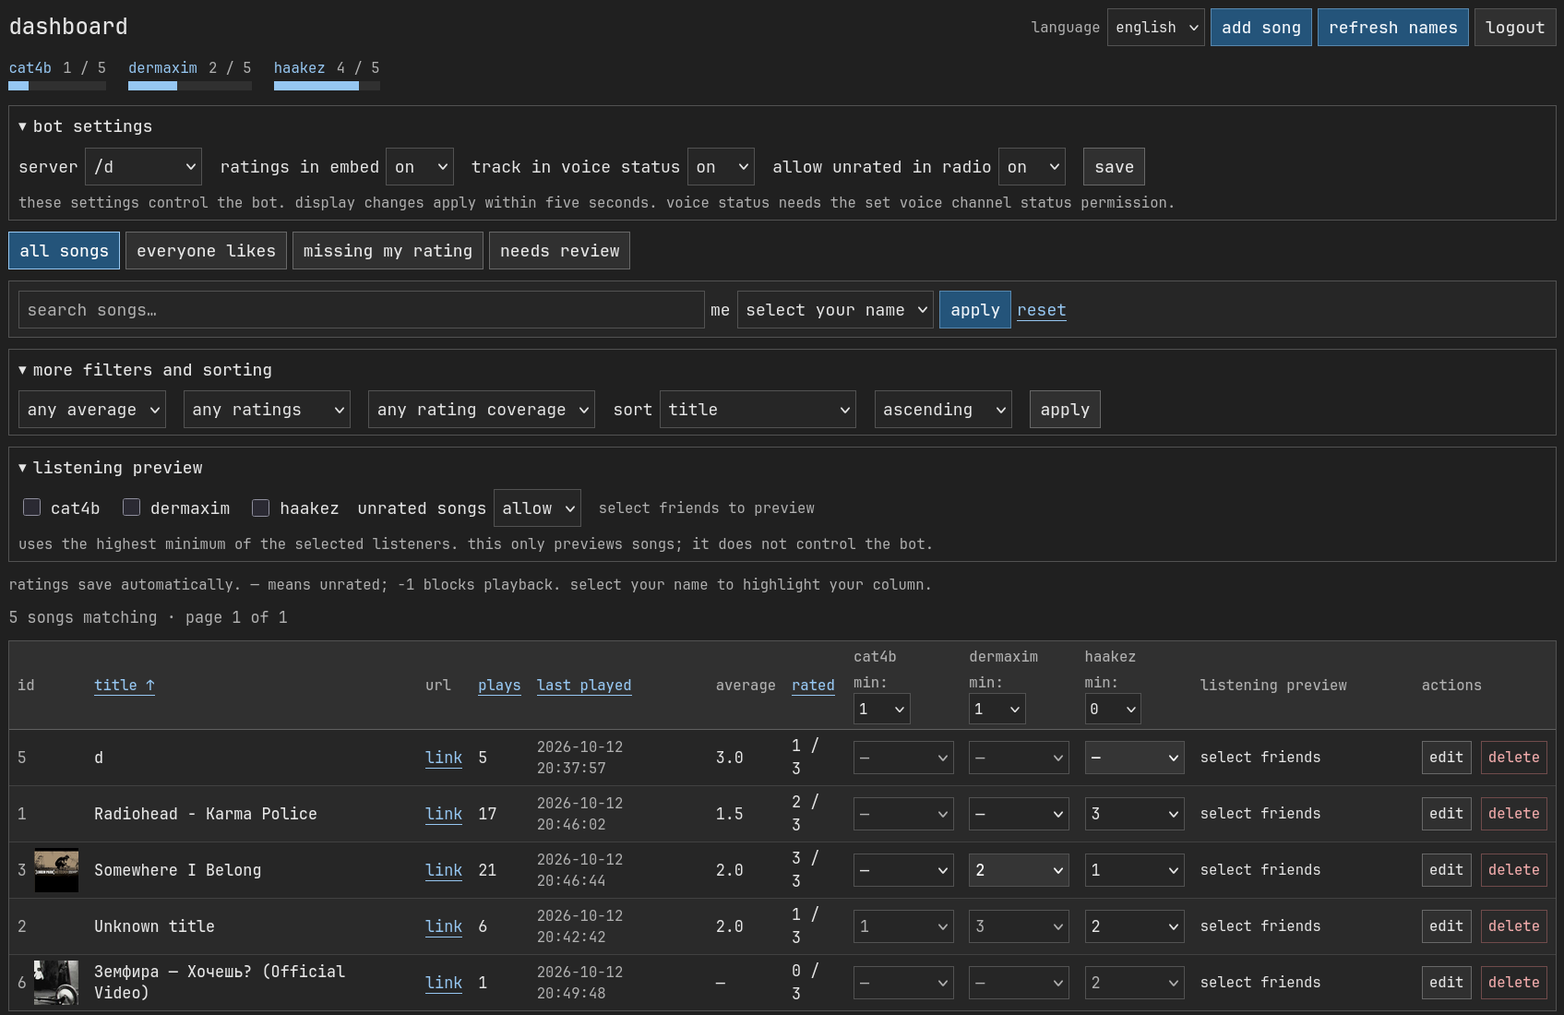
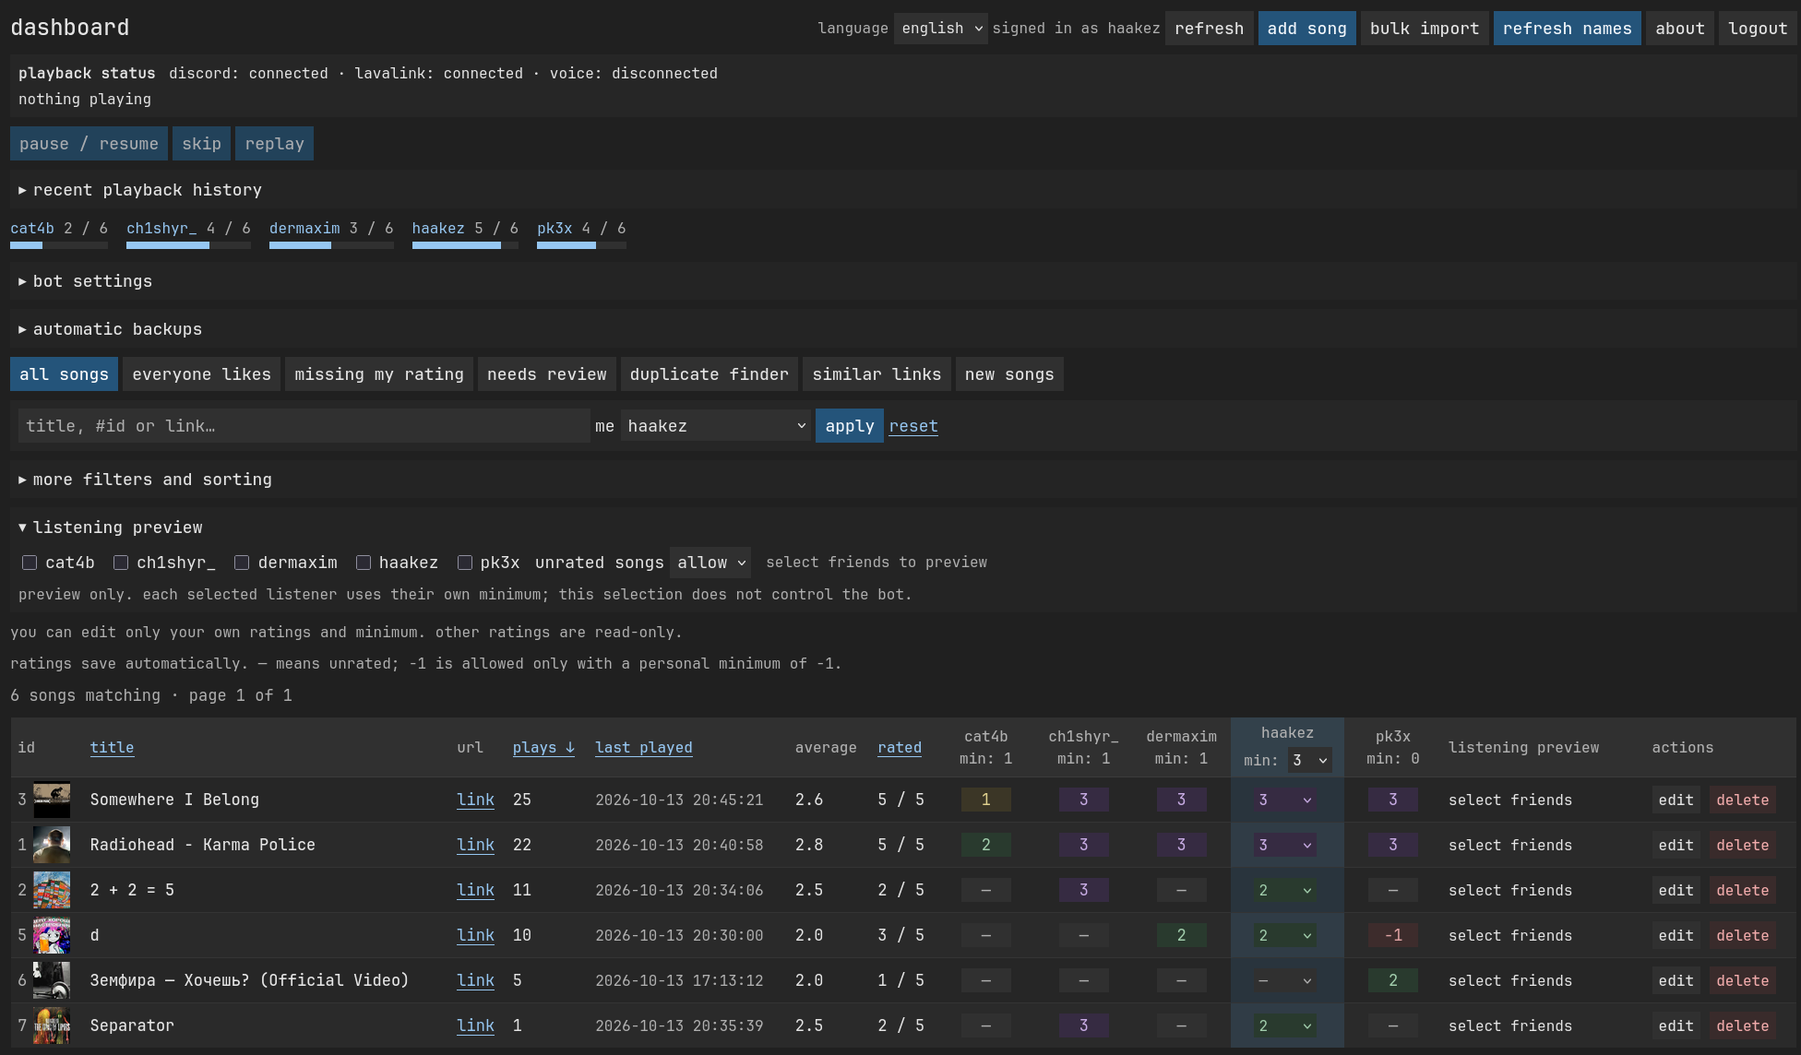
trim readme and update screenshot

diff --git a/README.md b/README.md
@@ -1,287 +1,176 @@
 # musicbot
 
-a discord music bot with a shared library, personal ratings, radio, playlist queues, playback across up to three voice channels, and a dashboard for managing songs and ratings.
-
-## dashboard
-
-manage songs and ratings, check listening eligibility, view playback status, and configure radio and backups. open “about” for the command reference, also available through `b!help`.
+music playback, personal ratings, radio, playlist queues, sync across three voice channels, and a dashboard.
 
 ![dashboard](docs/dashboard.png)
 
-## run
+## setup
 
-needs python 3.11+, lavalink v4 saved as `Lavalink.jar`, its required java version, and a discord bot with message content and server members intents enabled.
+python 3.11+, java 17+, `Lavalink.jar`, and a discord bot with message content and server members intents enabled.
 
 ```bash
+# nix: enter this first
+nix-shell
+# without nix:
 python -m venv venv
 source venv/bin/activate
+
 pip install -r requirements.txt
 cp .env.example .env
-# add your tokens and passwords to .env
+# fill in .env
 ```
 
-run these in separate terminals:
+load `.env` in each terminal. run from the project directory:
 
 ```bash
-# lavalink
 source .env
 java -jar Lavalink.jar
 ```
 
 ```bash
-# bot
 source venv/bin/activate
 source .env
 python main.py
 ```
 
 ```bash
-# dashboard
 source venv/bin/activate
 source .env
 python webapp.py
 ```
 
-open http://127.0.0.1:5000. set `ADMIN_USERNAME`, `ADMIN_PASSWORD`, and `FLASK_SECRET_KEY` in `.env`. the local fallback is `admin` / `password`. `token.txt` works when token environment variables are unset. on nix, use `nix-shell` first.
+local dashboard: http://127.0.0.1:5000. `token.txt` works instead of `DISCORD_TOKEN`. keep lavalink private.
 
 ## commands
 
 ```text
 b!help
 b!add <title or link>
-b!play <title, link or search>       # b!p
-b!radio                             # b!r
-b!queue [page]                      # b!q
-b!remove <queue number>
+b!play <title, link or search>             # b!p
+b!radio                                   # b!r
+b!queue [page]                            # b!q
+b!remove <number>
 b!move <from> <to>
 b!shuffle
 b!clear
-b!skip                              # b!s
-b!stop                              # b!st
-b!leave                             # b!l
-b!pause                             # b!pa
-b!resume                            # b!re
+b!skip                                    # b!s
+b!stop                                    # b!st
+b!leave                                   # b!l
+b!pause                                   # b!pa
+b!resume                                  # b!re
+b!replay
 b!seek <seconds>
-b!loop [track|queue|off]             # b!lp
+b!loop [track|queue|off]                   # b!lp
 b!np
-b!minrating <-1–3>                    # b!mr
+b!history
+b!minrating <-1|0|1|2|3>                   # b!mr
 b!unrated on|off
 b!embedratings on|off
 b!voicestatus on|off
 b!radioinfo
-b!rate <-1–3> <title or #song_id>
+b!rate <-1|0|1|2|3> <title or #song_id>
 b!library [page]
 b!sync <channel_id> [second_channel_id]
 b!unsync
 ```
 
-playlist links queue all returned tracks. text searches use the first result. `b!add` saves tracks to the library; `b!play` alone does not. `songs.txt` imports one title per line at startup, then empties the file.
+`b!play` offers search results; links and playlists queue directly. `b!add` saves to the library. playback buttons require a linked voice channel. the last three track messages remain available for ratings until restart.
+
+optional slash commands: set `ENABLE_SLASH_COMMANDS=true` before starting the bot. supported: `/play`, `/radio`, `/queue`, `/np`, `/history`, `/replay`, `/pause`, `/resume`, `/skip`.
 
 ## radio
 
-ratings: **-1, 0, 1, 2, 3**. missing ratings are separate from 0.
+ratings and personal minimums: `-1, 0, 1, 2, 3`. each listener's rating must meet their own minimum. minimum `-1` allows their -1 ratings; `—` is unrated. `b!unrated` controls missing ratings. manual requests bypass rating filters.
 
-radio checks each listener’s rating against that person’s own minimum. for example, a rating of 1 with a minimum of 1 and a rating of 3 with a minimum of 3 both pass. averages are not used for eligibility. **-1 blocks a song when that listener’s minimum is 0 or higher. a minimum of -1 allows their -1 ratings.**
+radio repeats eligible songs. “keep radio connected and retry” keeps it connected and waiting when no tracks qualify. source failures have a five-minute cooldown; `b!radio` retries immediately.
 
-`b!unrated on` allows missing ratings; `off` requires everyone to rate the song. manual requests bypass these rules. radio favours less-played songs and cycles through the eligible library. when every matching song has played, it starts another cycle. a single eligible song repeats. unavailable tracks are skipped for five minutes; `b!radio` retries them immediately.
-
-## sync
-
-invite two extra bot accounts with server members intent enabled. add their tokens to `.env` and restart:
-
-```bash
-export DISCORD_SYNC_TOKEN_2='second-bot-token'
-export DISCORD_SYNC_TOKEN_3='third-bot-token'
-```
-
-start playback, then use `b!sync` with one or two channel ids. companions follow the main bot's queue and playback. radio checks everyone across the linked channels. timing is approximate; live streams cannot be aligned by seeking.
-
-## platforms
-
-youtube, soundcloud, bandcamp, twitch, vimeo, and http audio links are configured. lavasrc adds optional spotify and apple music links, using youtube for the actual audio.
-
-set `SPOTIFY_ENABLED=true` with `SPOTIFY_CLIENT_ID` and `SPOTIFY_CLIENT_SECRET`, or `APPLE_MUSIC_ENABLED=true` with `APPLE_MUSIC_TOKEN`. export them before starting java and restart lavalink. other sources need their own configuration: [lavasrc docs](https://github.com/topi314/LavaSrc).
-
-```text
-b!play ytsearch:<query>
-b!play ytmsearch:<query>
-b!play scsearch:<query>
-b!play spsearch:<query>
-b!play amsearch:<query>
-```
+for sync, invite additional bots, set `DISCORD_SYNC_TOKEN_2` and optionally `DISCORD_SYNC_TOKEN_3`, restart, then use `b!sync`. timing is approximate.
 
 ## dashboard
 
-“bot settings” controls ratings in the now-playing embed, the track in voice-channel status, and whether radio allows unrated songs. settings are saved per server and match the commands above. display updates apply within five seconds. voice status needs the bot’s “set voice channel status” permission.
+- discord login; edit your own ratings and minimum.
+- playback controls, connection status, history, and bot settings.
+- search by title, `#id`, full link, or partial link.
+- duplicate finder, listening preview, new-song filters, and sortable columns.
+- bulk import with preview: text, csv, or tsv; headers `title,url`; maximum 5000 entries / 2 mb.
+- link-only entries fetch titles and covers when playback starts.
+- russian by default; language choice is remembered.
 
-- english and russian, inline saves, and per-person progress.
-- sorting by title, plays, last played, and rating coverage.
-- listening preview showing who blocks a track and why.
-- “everyone likes”: everyone rated 2 or 3.
-- “missing my rating”: tracks the selected person has not rated.
-- “needs review”: missing ratings, disagreements, or unresolved links.
-- cached usernames with manual refresh.
+changing a recording link clears stale metadata. video links lose attached playlists and tracking parameters but retain timecodes such as `t=1m30s`; these also work in radio. standalone playlist links remain supported.
 
-**—** clears a rating. apply the view again to refresh filtering after edits. the preview does not change the bot's settings. discord users can edit only their own ratings and minimum. other ratings remain visible; password-only sessions cannot edit ratings.
+## discord login
 
-for remote access, use https and a production server:
-
-```bash
-gunicorn --workers 1 --bind 127.0.0.1:5000 webapp:app
-```
-
-run everything from the same directory. keep lavalink private. back up `music_bot.db` with sqlite's backup api, or stop both apps before copying it.
-
-## audio sources
-
-song searches try a matching soundcloud recording first, then youtube. matching checks the title but can still select a different upload. explicit links, including saved youtube links, always use the supplied platform and recording. search prefixes also select a platform directly.
-
-```text
-b!play scsearch:artist title
-b!play ytsearch:artist title
-b!play ytmsearch:artist title
-b!play spsearch:artist title
-b!play amsearch:artist title
-b!play <soundcloud, bandcamp, spotify or apple music link>
-```
-
-soundcloud and bandcamp provide audio directly. spotify and apple music require their credentials in `.env`; lavasrc resolves their metadata through soundcloud, then youtube. youtube tries the patched ios client before mweb and tvhtml5_simply. ratings stay attached to the library song when another source is selected.
-
-youtube signature decoding uses the public yt-cipher service at `https://cipher.kikkia.dev/`. this is an external dependency; audio still streams through lavalink without downloading songs. set `YOUTUBE_CIPHER_URL` and, if needed, `YOUTUBE_CIPHER_PASSWORD` to use your own [yt-cipher instance](https://github.com/kikkia/yt-cipher). restart lavalink after changing these settings. the helper addresses player-script decoding failures; youtube login requirements can still prevent playback.
-
-the youtube plugin is pinned to development build `6579cdfd8fbfffad7c95b72fc07ff81c11d9e4de` for the upstream ios playback fix, with ios tried before mweb. this is newer development code than stable 1.18.2; playback may still fail as youtube changes. to revert, restore dependency version `1.18.2` and the releases repository in `application.yml`, remove the development youtube jar from `plugins`, and restart lavalink.
-
-all playback uses lavadspx adaptive peak attenuation, including radio and synced channels. it reduces peaks above amplitude `0.4` without boosting quiet recordings. this is not measured lufs normalization; songs can still differ in perceived loudness.
-
-## database backups
-
-the bot creates a consistent sqlite snapshot at startup and every six hours, keeping the latest 28 snapshots in `backups/`. snapshots include songs, ratings, usernames, thresholds, and server settings. they are checked before publication; backup failures are logged without stopping playback.
+in the [discord developer portal](https://discord.com/developers/applications), open oauth2 and configure these in `.env`:
 
 ```bash
-# create a backup now, including while the bot is running
-python backup_db.py
-# choose another destination or retention count
-python backup_db.py --directory /path/to/backups --keep 28
+export DISCORD_OAUTH_CLIENT_ID='application_id'
+export DISCORD_OAUTH_CLIENT_SECRET='oauth_secret_not_bot_token'
+export DISCORD_OAUTH_REDIRECT_URI='http://127.0.0.1:5000/auth/discord/callback'
+export DISCORD_ALLOWED_USER_IDS='your_id,friend_id'
+export DASHBOARD_LOGIN_DAYS='30'
+export FLASK_SECRET_KEY='permanent_random_secret'
 ```
 
-set the backup interval (1–168 hours) under “automatic backups” in the dashboard. changes apply within 30 seconds. `DB_BACKUP_HOURS` supplies the initial default; saved dashboard settings take precedence. `DB_BACKUP_DIR` and `DB_BACKUP_KEEP` in `.env` control destination and retention. automatic backups run while the bot is running. keep a copy on another disk or machine to protect against disk failure.
+register the exact callback under oauth2 → redirects. for public hosting, use https and `FLASK_COOKIE_SECURE=true`.
 
-```bash
-# restore: stop the bot and dashboard first, then preserve the current database
-python backup_db.py
-# replace the example snapshot path with the backup to restore
-python - <<'PY'
-import sqlite3
-from contextlib import closing
-with closing(sqlite3.connect('file:backups/music_bot-YYYYMMDDTHHMMSSffffffZ.sqlite3?mode=ro', uri=True)) as source:
-    with closing(sqlite3.connect('music_bot.db')) as destination:
-        source.backup(destination)
-PY
-# restart the bot and dashboard
-```
+**add people:** append their user ids to `DISCORD_ALLOWED_USER_IDS`, reload `.env`, and restart the dashboard. discord developer mode enables “copy user id”.
 
-now-playing messages show source, artwork when available, duration, play count, and requester details for manual requests. `b!embedratings on|off` or the dashboard setting controls the ratings section. the bot retains its latest three track messages per server during a run so earlier tracks can still be rated; -1 on an older track does not skip a different current song. messages from before a bot restart are not registered again.
-
-in the dashboard, a song can have only a link and no title. its title and artwork are filled from source metadata when playback starts. supplied titles are preserved. cover thumbnails appear beside song ids after artwork has been resolved.
-
-## dashboard status and radio
-
-“keep radio connected and retry” in bot settings keeps active radio connected when the channel is empty or no eligible songs remain. eligible songs already repeat after each cycle. while waiting, radio rechecks every 15 seconds and resumes when listeners return or ratings allow playback. source failures still keep their five-minute cooldown. explicit stop and leave commands remain available; this does not reconnect a bot that was forcibly disconnected.
-
-the dashboard shows discord, lavalink, and voice connection status, the current track, pause state, source, and listener count. status refreshes about every five seconds; a heartbeat older than 20 seconds is marked outdated.
-
-“similar links” finds entries pointing to the same recording, including youtube short/watch/embed links and common tracking variations. it does not compare audio across different uploads. “new songs” shows additions from the last seven days; date-added sorting is also available. timestamps are recorded for new entries; existing entries with unknown dates are excluded from the new-songs view.
-
-search accepts titles, exact ids such as `#123`, full links, and partial links. full youtube links also match alternate url formats for the same video. “duplicate finder” lists possible duplicates by normalized link or similar title and shows the matching ids. review recordings before deleting: similar titles can belong to different versions, and ratings are not merged automatically.
-
-## playback controls and history
-
-now-playing messages include pause/resume, skip, and replay buttons. controls require a listener in a linked voice channel and apply only when that recording is current. dashboard controls are available to signed-in users and show whether the bot completed the action. replay seeks to the start without removing queued songs; live streams cannot be replayed.
-
-```text
-b!replay
-b!history
-```
-
-recent history is saved in sqlite: the dashboard shows the latest 50 entries for the selected server, and `b!history` shows ten. up to 500 entries per server are retained, including failed playback attempts. play counts still increment on track start.
-
-manual `b!play` searches offer up to five recordings to the requester, with a 60-second selection timeout. links and playlists are queued directly. radio keeps its automatic selection.
-
-## bulk import and metadata
-
-open “bulk import” to paste one title or link per line, or upload UTF-8 text, CSV, or TSV. CSV/TSV headers are `title,url`. the preview marks invalid entries and duplicate names/links, and you choose which entries to save. imports are limited to 5000 entries and 2 mb; preview confirmation expires after one hour. existing recording links are rechecked at confirmation and skipped without changing ratings.
-
-changing a song's recording link clears its old cover and, if the title was left unchanged, clears the old title for resolution on the next playback. manually supplied replacement titles are kept. alternate URL formats for the same recording preserve metadata. duplicate recording links and invalid play counts return a form error.
-
-## optional slash commands
-
-```bash
-export ENABLE_SLASH_COMMANDS=true
-python main.py
-```
-
-this registers `/play`, `/radio`, `/queue`, `/np`, `/history`, `/replay`, `/pause`, `/resume`, and `/skip` globally. discord must authorize the bot's application commands, and global registration can take time to appear. prefix commands continue to work. `/play` uses the same result selection as `b!play`. the flag controls registration on startup; turning it off does not unregister commands already published to discord.
-
-## discord dashboard login
-
-`.env` is a plain text file containing shell exports. create it from `.env.example`, edit it, then load it in each terminal before starting a service:
-
-```bash
-cp .env.example .env
-# edit .env with your editor
-nix-shell
-source .env
-python webapp.py
-```
-
-for remembered logins, keep a permanent random `FLASK_SECRET_KEY` in `.env`. generate a value and paste it into that setting:
+generate the session secret:
 
 ```bash
 python -c 'import secrets; print(secrets.token_hex(32))'
 ```
 
-1. open your application in the [discord developer portal](https://discord.com/developers/applications).
-2. under oauth2, copy its client id and client secret into `DISCORD_OAUTH_CLIENT_ID` and `DISCORD_OAUTH_CLIENT_SECRET`. the client secret is not the bot token.
-3. register the exact redirect URL and put the same URL in `DISCORD_OAUTH_REDIRECT_URI`. locally, use `http://127.0.0.1:5000/auth/discord/callback`; publicly, use `https://your-address/auth/discord/callback`.
-4. put your own discord user id and each allowed person's id in `DISCORD_ALLOWED_USER_IDS`.
-5. for public https hosting, set `FLASK_COOKIE_SECURE=true`. use false only for local http development.
-6. load `.env` and restart the dashboard.
+login uses only `identify`. remembered sessions last 30 days by default. keep the secret unchanged across restarts. without oauth configured, local password login uses `ADMIN_USERNAME` / `ADMIN_PASSWORD` (defaults: `admin` / `password`); it cannot edit ratings.
 
-```bash
-export DISCORD_ALLOWED_USER_IDS='111111111111111111,222222222222222222'
-export DASHBOARD_LOGIN_DAYS='30'
-```
+## temporary hosting
 
-**add more people:** edit `DISCORD_ALLOWED_USER_IDS` in `.env`, append another id separated by a comma, then run `source .env` and restart the dashboard. to copy a user id in discord, enable developer mode in settings, then right-click the person and choose “copy user id”. usernames are not used for access decisions.
-
-with discord login configured, password login is disabled and only allowlisted accounts can enter. removed accounts are rejected after the configuration is reloaded, even with a remembered login. the login requests only the `identify` scope and does not save oauth access or refresh tokens in the browser session. ratings and personal minimums can be edited only by their Discord owner. other dashboard controls remain shared among admitted users.
-
-“remember me” keeps login for 30 days by default, including after dashboard restarts when the secret key remains the same. unchecking it uses a browser-session cookie with a 12-hour server expiry. logout clears the browser session. remembered login requires the browser to retain cookies.
-
-“refresh” reloads dashboard data with the applied filters and selected server. it waits for active rating saves and playback actions before allowing a reload.
-
-## temporary sharing for friends
-
-configure discord client id/secret, `DISCORD_ALLOWED_USER_IDS`, and a permanent `FLASK_SECRET_KEY` in `.env` first. the launcher refuses to expose the password-only dashboard. the callback URL is set automatically for this temporary process.
+configure discord login and the allowlist first:
 
 ```bash
 nix-shell
-pip install -r requirements.txt
 ./share-dashboard.sh
 ```
 
-the script loads `.env`, opens a [cloudflare quick tunnel](https://developers.cloudflare.com/tunnel/get-started/quick-tunnels/), and starts a separate gunicorn dashboard on localhost. it prints a temporary https address and its exact oauth callback. add that callback under oauth2 → redirects in the discord developer portal, save, then share the dashboard address with your allowed friends.
+add the printed callback to discord's oauth2 redirects, save, then share the https address. keep the terminal open; ctrl+c stops sharing. every run gets a new URL and callback. the script loads `.env` and starts its own gunicorn process.
 
-keep the terminal open. ctrl+c stops the tunnel and its dashboard, while the bot and lavalink continue running. the URL changes every run, so register the new callback each time. a new hostname also means signing in again, even if login was remembered on the previous hostname. this is a testing setup, not permanent hosting. quick tunnels require no cloudflare account or purchased domain, and have no uptime guarantee.
+for permanent hosting, use https in front of:
 
-if you entered nix-shell before cloudflared was added, leave it and run `nix-shell` again. existing cloudflared config files can conflict with quick tunnels; the script will report that rather than modifying them.
+```bash
+source .env
+gunicorn --workers 1 --threads 4 --bind 127.0.0.1:5000 webapp:app
+```
 
-## links and rating colors
+## sources
 
-video links are cleaned automatically on playback and when added or edited: attached youtube playlists, channel labels, and tracking parameters are removed. standalone playlist links still import/play playlists. start times are kept as `t=<seconds>`; formats such as `t=90`, `t=1m30s`, `start=90`, and `#t=90` work in manual playback and radio. a start outside the recording is rejected. arbitrary stream links retain parameters that may be needed for playback.
+youtube, soundcloud, bandcamp, twitch, vimeo, and http audio. spotify/apple music require their credentials in `.env`; lavasrc resolves audio through soundcloud, then youtube. see [lavasrc](https://github.com/topi314/LavaSrc).
 
-ratings use muted purple (3), green (2), yellow (1), gray (0), and red (-1). unrated entries remain separate. the server checks ownership when saving ratings and minimums, including manually crafted requests.
+```text
+b!play scsearch:<query>
+b!play ytsearch:<query>
+b!play ytmsearch:<query>
+b!play spsearch:<query>
+b!play amsearch:<query>
+```
 
-minimum options are exactly `-1, 0, 1, 2, 3`. each listener’s own rating is compared with their own minimum. legacy fractional minima round upward to preserve which integer ratings qualify.
+youtube uses a pinned development plugin and [yt-cipher](https://github.com/kikkia/yt-cipher). override `YOUTUBE_CIPHER_URL` / `YOUTUBE_CIPHER_PASSWORD` for your own helper. no audio caching. normalization reduces loud peaks; it is not lufs normalization.
 
-new dashboard sessions default to russian; the selected language is remembered.
+## backups
+
+automatic at bot startup and every six hours by default; latest 28 copies in `backups/`. change the interval in the dashboard. `.env` controls `DB_BACKUP_DIR` and `DB_BACKUP_KEEP`. backups require the bot running; keep an off-device copy.
+
+```bash
+python backup_db.py
+```
+
+restore with both bot and dashboard stopped; back up the current database first:
+
+```bash
+python backup_db.py
+python - <<'PY'
+import sqlite3
+with sqlite3.connect('file:backups/CHOSEN_SNAPSHOT.sqlite3?mode=ro', uri=True) as source:
+    with sqlite3.connect('music_bot.db') as destination:
+        source.backup(destination)
+PY
+```
